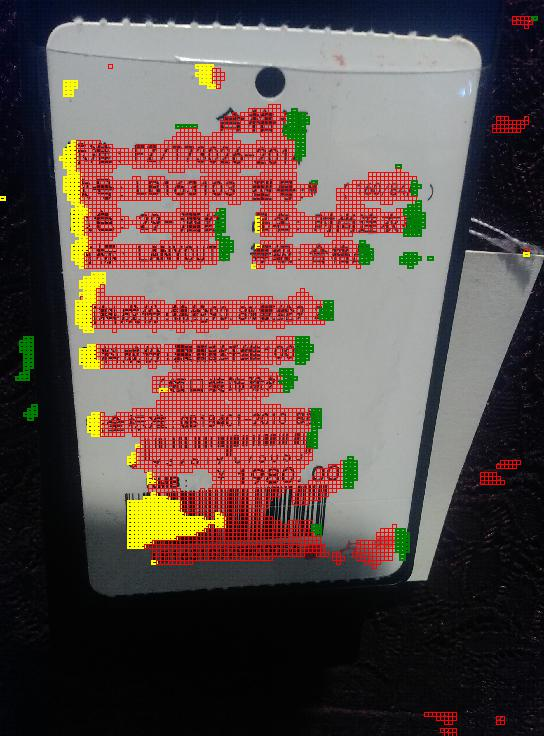
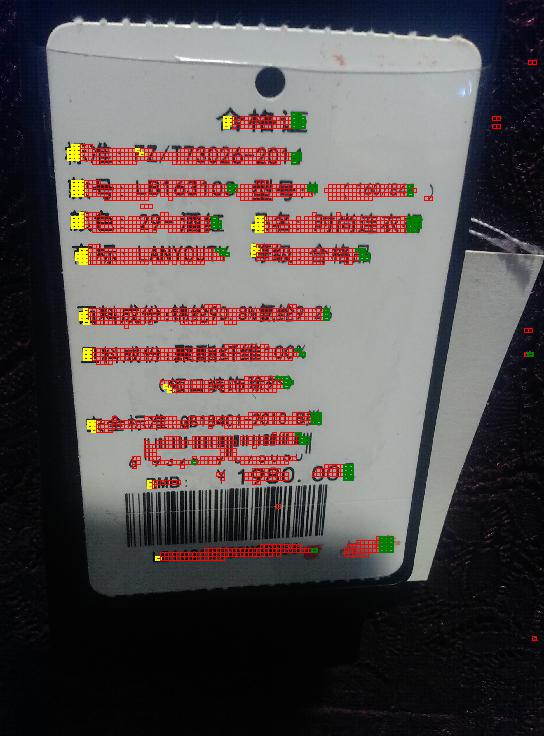
update root path

diff --git a/predict.py b/predict.py
@@ -174,10 +174,10 @@ def predict_txt(east_detect, img_path, txt_path, pixel_threshold, quiet=False):
 def parse_args():
     parser = argparse.ArgumentParser()
     parser.add_argument('--path', '-p',
-                        default='demo/IMG_0059.JPG',
+                        default='demo/123.jpg',
                         help='image path')
     parser.add_argument('--threshold', '-t',
-                        default=0.5,
+                        default=0.9,
                         help='pixel activation threshold')
     return parser.parse_args()
 

diff --git a/cfg.py b/cfg.py
@@ -17,8 +17,8 @@ total_img = 10000
 validation_split_ratio = 0.1
 # max_train_img_size = int(train_task_id[-3:])
 # max_predict_img_size = int(train_task_id[-3:])  # 2400
-max_train_img_size = int(train_task_id[-3:])
-max_predict_img_size = int(train_task_id[-3:])  # 2400
+max_train_img_size = 736
+max_predict_img_size = 736  # 2400
 assert max_train_img_size in [256, 384, 512, 640, 736], \
     'max_train_img_size must in [256, 384, 512, 640, 736]'
 if max_train_img_size == 256:
